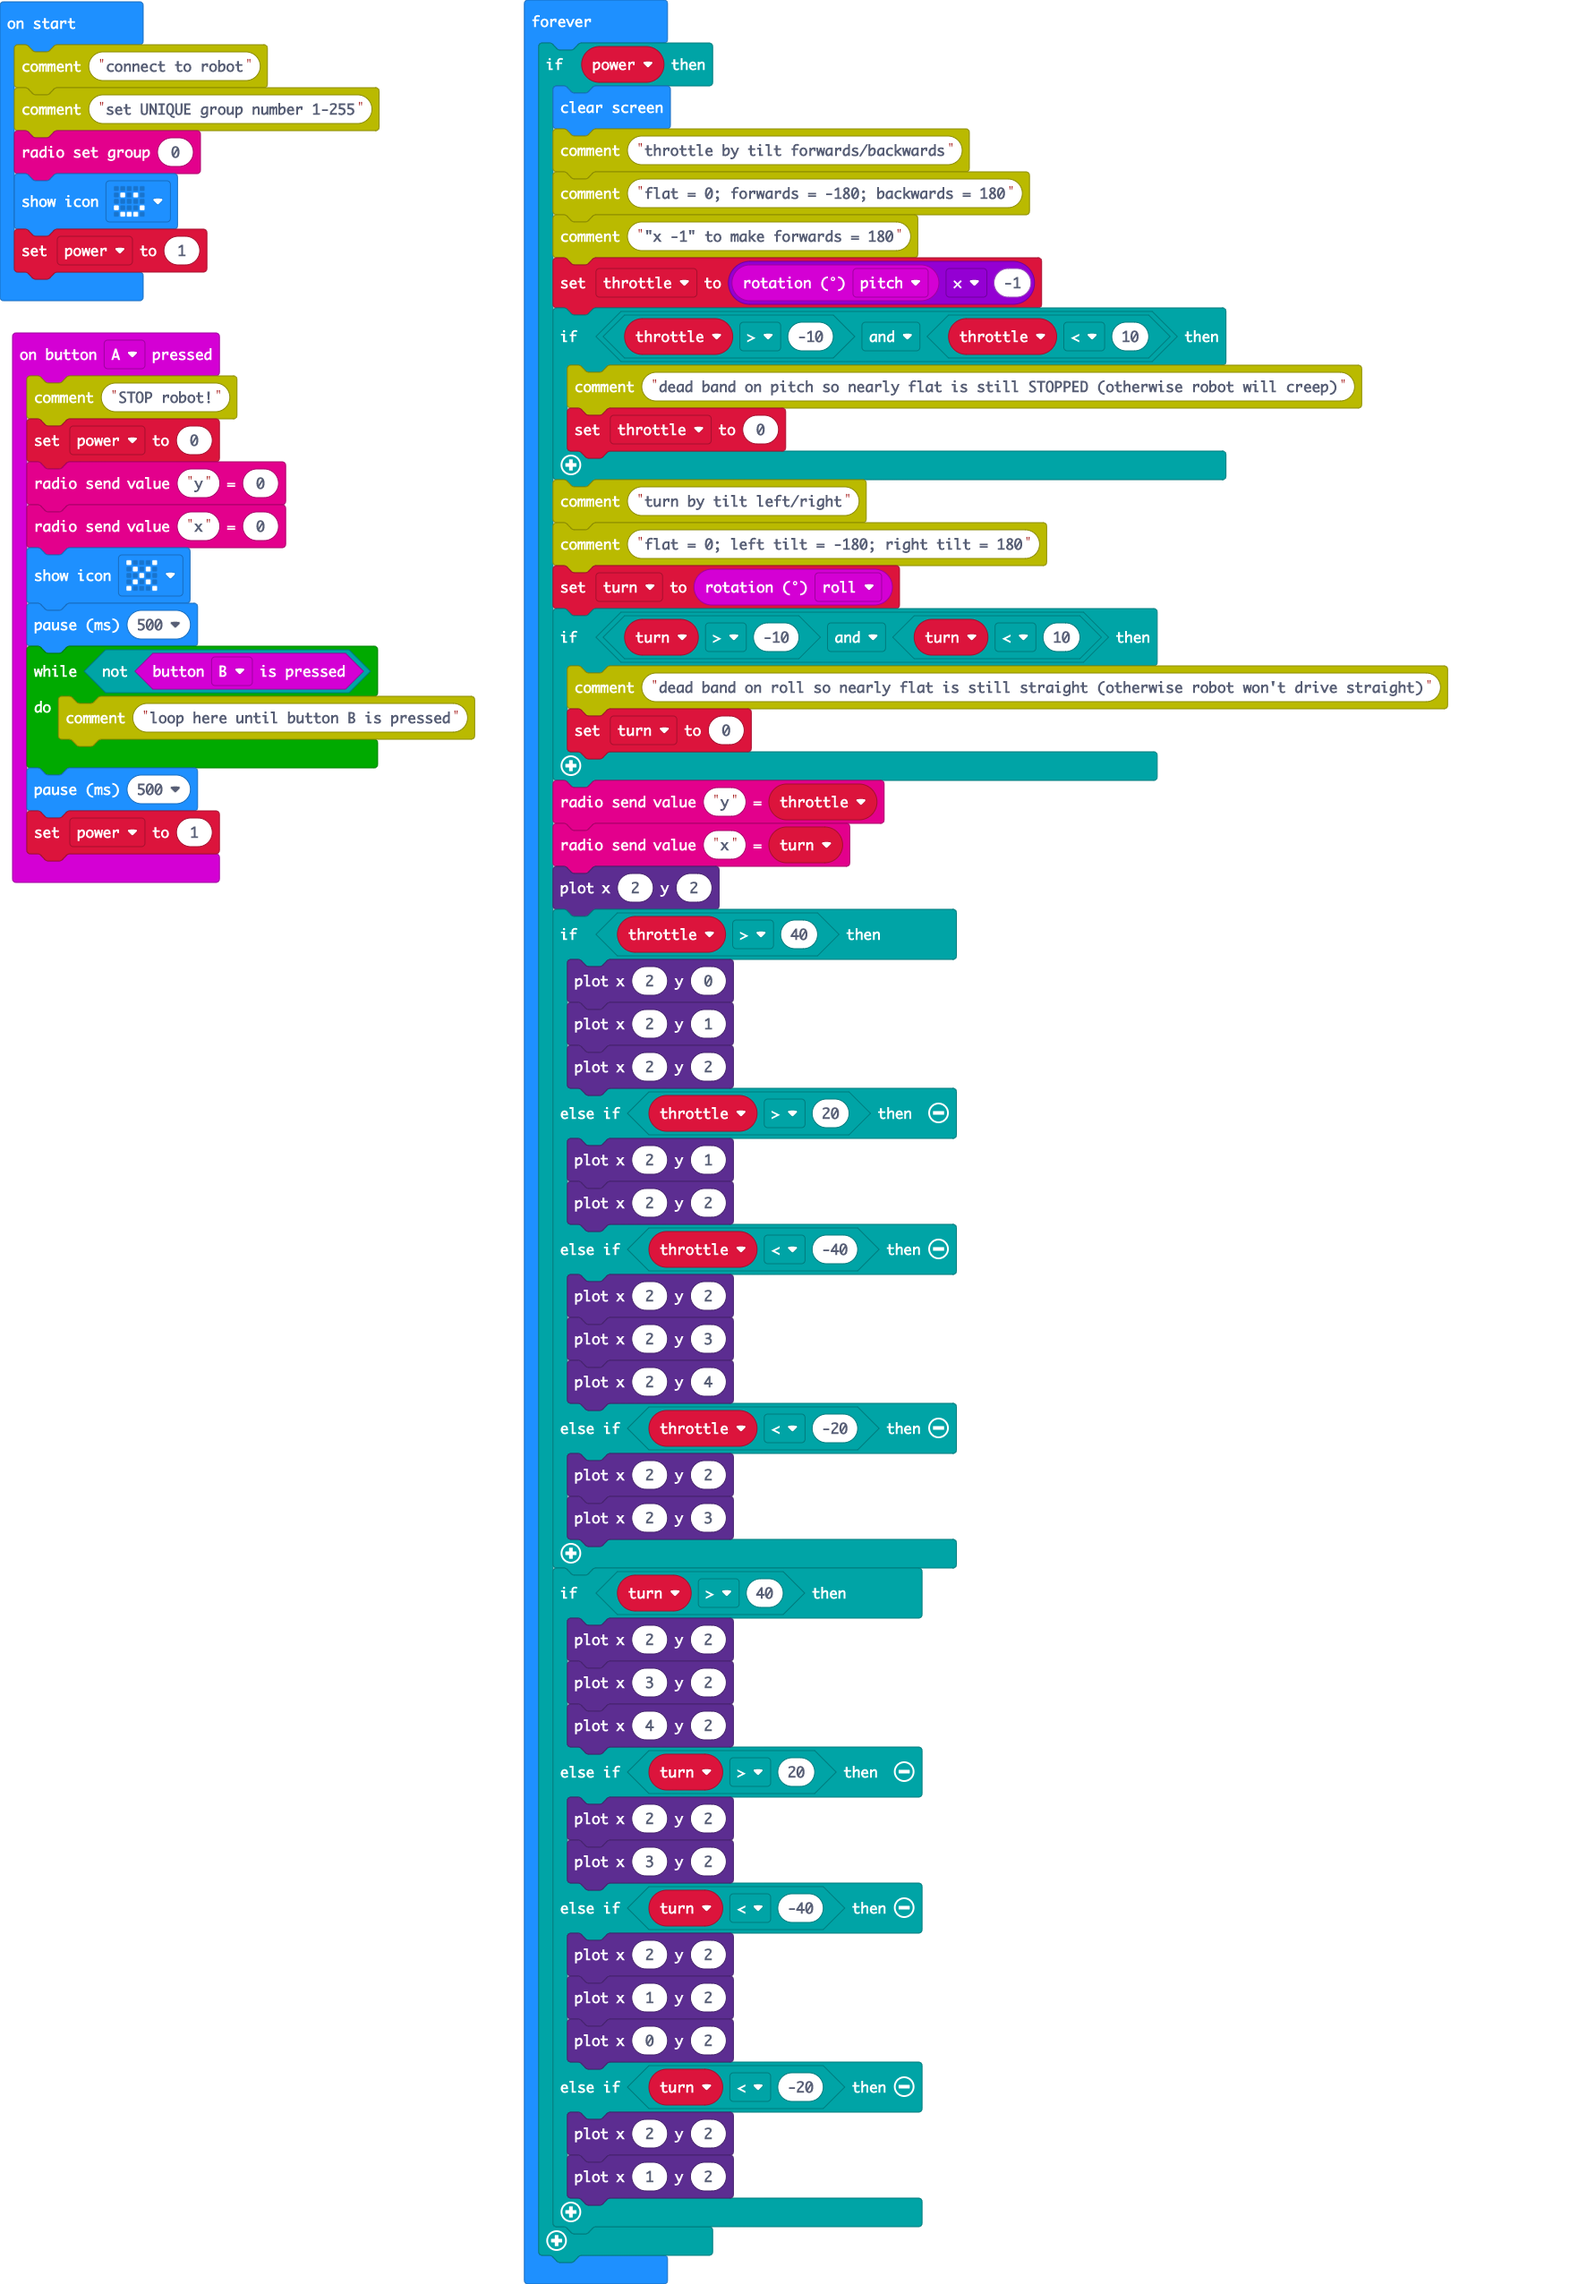
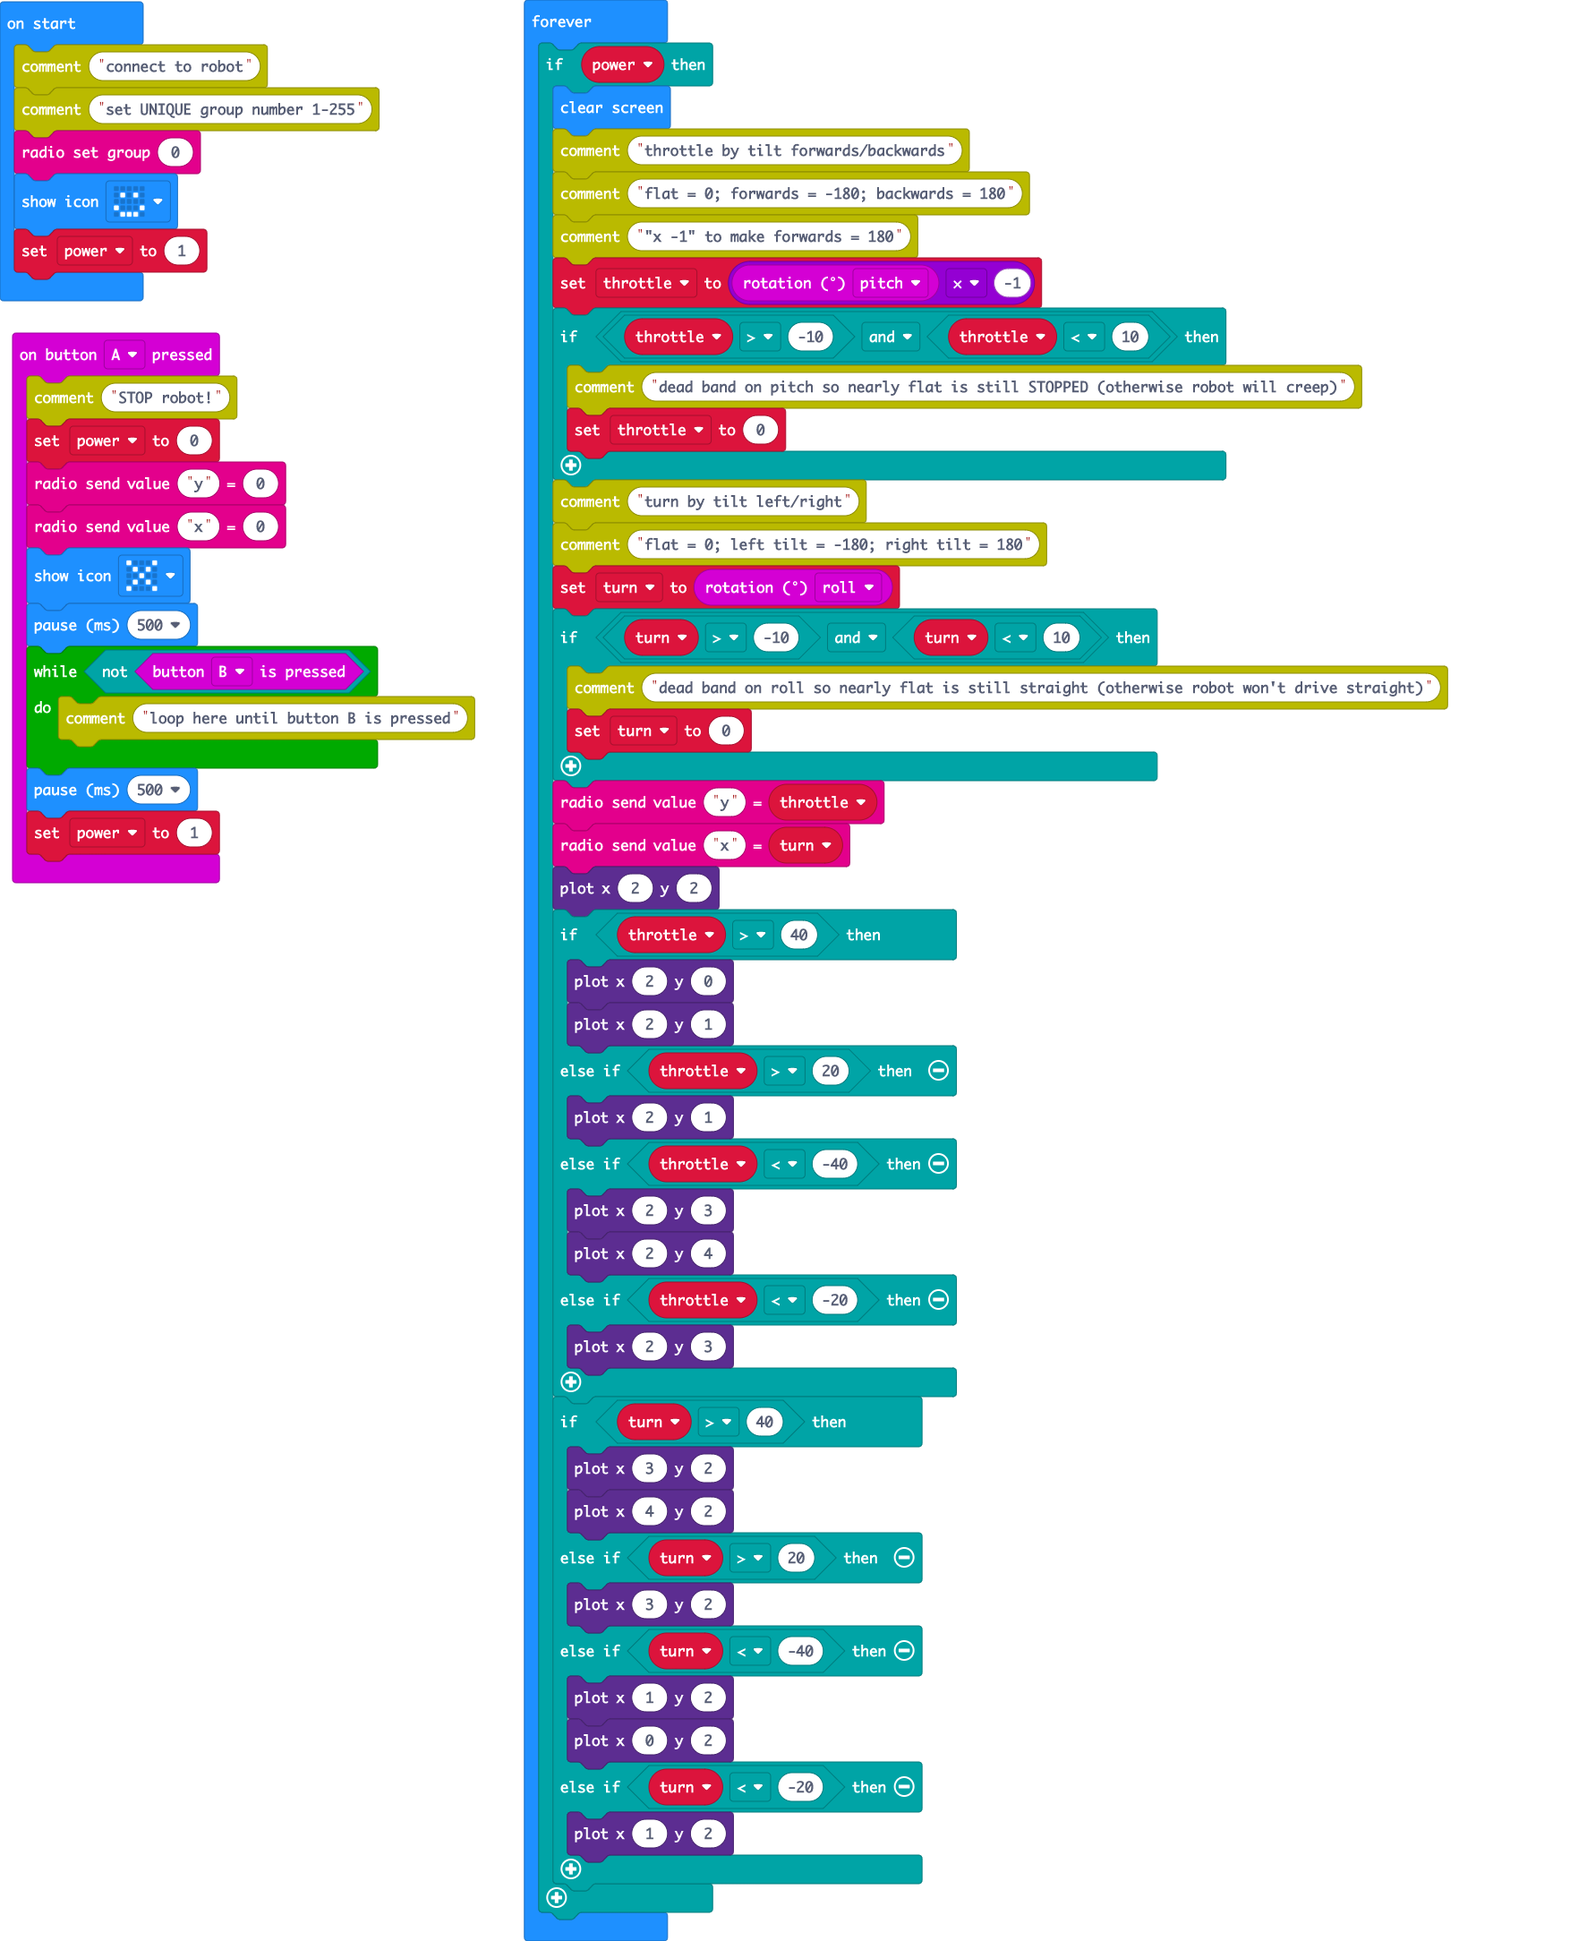
Update main.blocks, main.ts

Changed region(s): [[0.3412, 0.0, 0.9306, 0.9889], [0.0, 0.0, 0.3102, 0.4636]]

diff --git a/main.ts b/main.ts
@@ -43,31 +43,23 @@ basic.forever(function () {
         if (throttle > 40) {
             led.plot(2, 0)
             led.plot(2, 1)
-            led.plot(2, 2)
         } else if (throttle > 20) {
             led.plot(2, 1)
-            led.plot(2, 2)
         } else if (throttle < -40) {
-            led.plot(2, 2)
             led.plot(2, 3)
             led.plot(2, 4)
         } else if (throttle < -20) {
-            led.plot(2, 2)
             led.plot(2, 3)
         }
         if (turn > 40) {
-            led.plot(2, 2)
             led.plot(3, 2)
             led.plot(4, 2)
         } else if (turn > 20) {
-            led.plot(2, 2)
             led.plot(3, 2)
         } else if (turn < -40) {
-            led.plot(2, 2)
             led.plot(1, 2)
             led.plot(0, 2)
         } else if (turn < -20) {
-            led.plot(2, 2)
             led.plot(1, 2)
         }
     }
